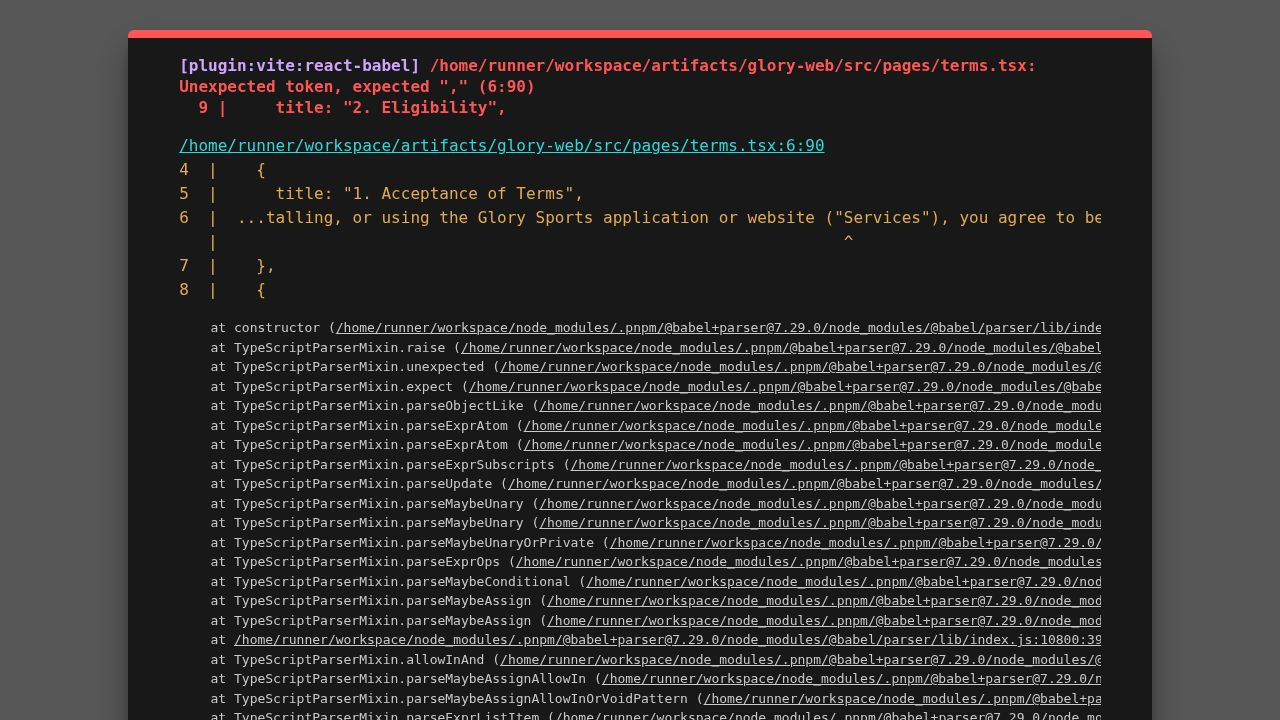
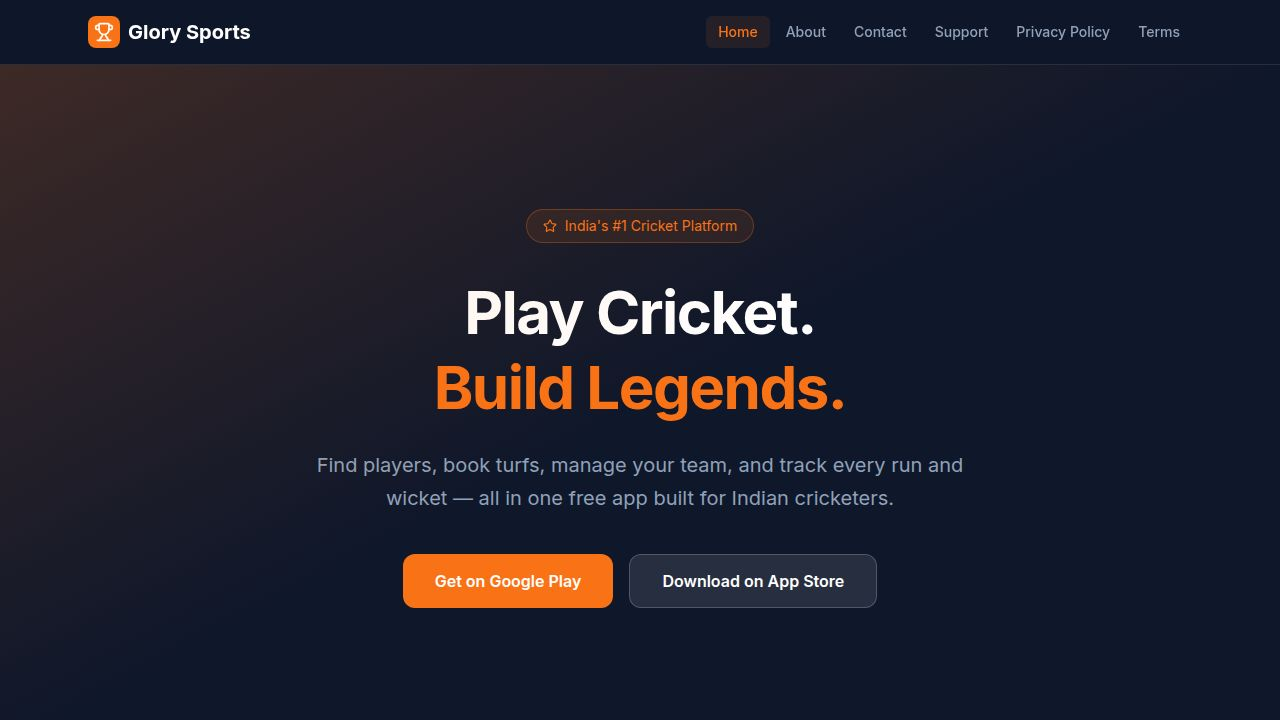
Integrate Twilio for sending and verifying SMS One-Time Passwords
Replace in-memory OTP storage with Twilio Verify API for sending and validating SMS OTPs, updating necessary dependencies and routes.

Replit-Commit-Author: Agent
Replit-Commit-Session-Id: 46f0c951-bec6-4c79-ad00-bebfb17cef56
Replit-Commit-Checkpoint-Type: full_checkpoint
Replit-Commit-Event-Id: 69d4e1a6-a54b-4df8-8f24-45676c1f6d1b
Replit-Commit-Screenshot-Url: https://storage.googleapis.com/screenshot-production-us-central1/2273e7ab-3c92-4d3d-9dc2-630b11d18217/46f0c951-bec6-4c79-ad00-bebfb17cef56/MCKBxcO
Replit-Helium-Checkpoint-Created: true

diff --git a/artifacts/api-server/src/routes/auth.ts b/artifacts/api-server/src/routes/auth.ts
@@ -1,5 +1,6 @@
 import { Router, type IRouter } from "express";
 import bcrypt from "bcryptjs";
+import twilio from "twilio";
 import { db, usersTable, playerProfilesTable, playerStatsTable } from "@workspace/db";
 import { eq } from "drizzle-orm";
 import { signToken, authenticate } from "../lib/auth";
@@ -7,28 +8,12 @@ import { RegisterBody, LoginBody, SendOtpBody, VerifyOtpBody } from "@workspace/
 
 const router: IRouter = Router();
 
-// ─── In-memory OTP store ────────────────────────────────────────────────────
-interface OtpRecord {
-  otp: string;
-  expiresAt: number;
-  attempts: number;
-}
-
-const otpStore = new Map<string, OtpRecord>();
-
-const OTP_TTL_MS = 10 * 60 * 1000; // 10 minutes
-const MAX_ATTEMPTS = 5;
-
-function generateOtp(): string {
-  return Math.floor(100000 + Math.random() * 900000).toString();
-}
-
-function cleanExpiredOtps() {
-  const now = Date.now();
-  for (const [phone, record] of otpStore.entries()) {
-    if (record.expiresAt < now) otpStore.delete(phone);
-  }
-}
+// ─── Twilio Verify client ─────────────────────────────────────────────────────
+const twilioClient = twilio(
+  process.env.TWILIO_ACCOUNT_SID,
+  process.env.TWILIO_AUTH_TOKEN,
+);
+const VERIFY_SID = process.env.TWILIO_VERIFY_SID!;
 
 // ─── Register ────────────────────────────────────────────────────────────────
 router.post("/auth/register", async (req, res): Promise<void> => {
@@ -150,7 +135,7 @@ router.get("/auth/me", authenticate, async (req, res): Promise<void> => {
   });
 });
 
-// ─── Send OTP ────────────────────────────────────────────────────────────────
+// ─── Send OTP (via Twilio Verify) ─────────────────────────────────────────────
 router.post("/auth/send-otp", async (req, res): Promise<void> => {
   const parsed = SendOtpBody.safeParse(req.body);
   if (!parsed.success) {
@@ -158,35 +143,34 @@ router.post("/auth/send-otp", async (req, res): Promise<void> => {
     return;
   }
 
-  const { phone } = parsed.data;
+  const phone = parsed.data.phone.replace(/\s+/g, "");
 
-  if (!/^[6-9]\d{9}$/.test(phone.replace(/\s+/g, ""))) {
+  if (!/^[6-9]\d{9}$/.test(phone)) {
     res.status(400).json({ error: "Enter a valid 10-digit Indian mobile number" });
     return;
   }
 
-  cleanExpiredOtps();
+  // Twilio expects E.164 format: +91XXXXXXXXXX
+  const e164 = `+91${phone}`;
 
-  const otp = generateOtp();
-  otpStore.set(phone, {
-    otp,
-    expiresAt: Date.now() + OTP_TTL_MS,
-    attempts: 0,
-  });
+  try {
+    await twilioClient.verify.v2
+      .services(VERIFY_SID)
+      .verifications.create({ to: e164, channel: "sms" });
 
-  // In production, send via SMS provider (e.g. MSG91, Fast2SMS)
-  // For now, return devOtp so the app can show it for testing
-  const isDev = process.env.NODE_ENV !== "production";
+    req.log.info({ phone }, "OTP sent via Twilio");
 
-  req.log.info({ phone, otp: isDev ? otp : "***" }, "OTP generated");
-
-  res.json({
-    message: "OTP sent successfully",
-    devOtp: isDev ? otp : null,
-  });
+    res.json({
+      message: "OTP sent successfully",
+      devOtp: null, // real SMS — no dev leak
+    });
+  } catch (err: any) {
+    req.log.error({ err }, "Twilio send-otp error");
+    res.status(500).json({ error: "Failed to send OTP. Please try again." });
+  }
 });
 
-// ─── Verify OTP ──────────────────────────────────────────────────────────────
+// ─── Verify OTP (via Twilio Verify) ───────────────────────────────────────────
 router.post("/auth/verify-otp", async (req, res): Promise<void> => {
   const parsed = VerifyOtpBody.safeParse(req.body);
   if (!parsed.success) {
@@ -194,41 +178,34 @@ router.post("/auth/verify-otp", async (req, res): Promise<void> => {
     return;
   }
 
-  const { phone, otp, name, role, city } = parsed.data;
+  const { otp, name, role, city } = parsed.data;
+  const phone = parsed.data.phone.replace(/\s+/g, "");
+  const e164 = `+91${phone}`;
 
-  const record = otpStore.get(phone);
+  try {
+    const check = await twilioClient.verify.v2
+      .services(VERIFY_SID)
+      .verificationChecks.create({ to: e164, code: otp });
 
-  if (!record) {
-    res.status(401).json({ error: "OTP not found or expired. Please request a new one." });
+    if (check.status !== "approved") {
+      res.status(401).json({ error: "Incorrect OTP. Please try again." });
+      return;
+    }
+  } catch (err: any) {
+    req.log.error({ err }, "Twilio verify-otp error");
+    const msg = err?.message ?? "OTP verification failed.";
+    res.status(401).json({ error: msg });
     return;
   }
 
-  if (record.expiresAt < Date.now()) {
-    otpStore.delete(phone);
-    res.status(401).json({ error: "OTP has expired. Please request a new one." });
-    return;
-  }
-
-  if (record.attempts >= MAX_ATTEMPTS) {
-    otpStore.delete(phone);
-    res.status(429).json({ error: "Too many attempts. Please request a new OTP." });
-    return;
-  }
-
-  if (record.otp !== otp) {
-    record.attempts += 1;
-    res.status(401).json({ error: `Incorrect OTP. ${MAX_ATTEMPTS - record.attempts} attempt(s) remaining.` });
-    return;
-  }
-
-  // OTP valid — clear it
-  otpStore.delete(phone);
-
-  // Check if user exists
-  const [existing] = await db.select().from(usersTable).where(eq(usersTable.phone, phone)).limit(1);
+  // OTP approved — check if user exists
+  const [existing] = await db
+    .select()
+    .from(usersTable)
+    .where(eq(usersTable.phone, phone))
+    .limit(1);
 
   if (existing) {
-    // Existing user — log them in
     if (existing.isBanned) {
       res.status(403).json({ error: "Account is banned" });
       return;
@@ -238,25 +215,28 @@ router.post("/auth/verify-otp", async (req, res): Promise<void> => {
     return;
   }
 
-  // New user — need name + role to register
+  // New user — need name + role to finish registration
   if (!name) {
     res.json({ newUser: true, token: null, userId: null });
     return;
   }
 
-  // Register new user via OTP (no password needed — use a random hash)
-  const passwordHash = await bcrypt.hash(Math.random().toString(36), 10);
+  // Register new OTP-verified user (no password required)
+  const passwordHash = await bcrypt.hash(Math.random().toString(36) + Date.now(), 10);
   const userRole = (role === "turf_owner" ? "turf_owner" : "player") as "player" | "turf_owner";
 
-  const [newUser] = await db.insert(usersTable).values({
-    name,
-    phone,
-    email: null,
-    passwordHash,
-    role: userRole,
-    city: city ?? null,
-    isVerified: true, // OTP-verified users are automatically verified
-  }).returning();
+  const [newUser] = await db
+    .insert(usersTable)
+    .values({
+      name,
+      phone,
+      email: null,
+      passwordHash,
+      role: userRole,
+      city: city ?? null,
+      isVerified: true,
+    })
+    .returning();
 
   if (newUser.role === "player") {
     await db.insert(playerProfilesTable).values({ userId: newUser.id });